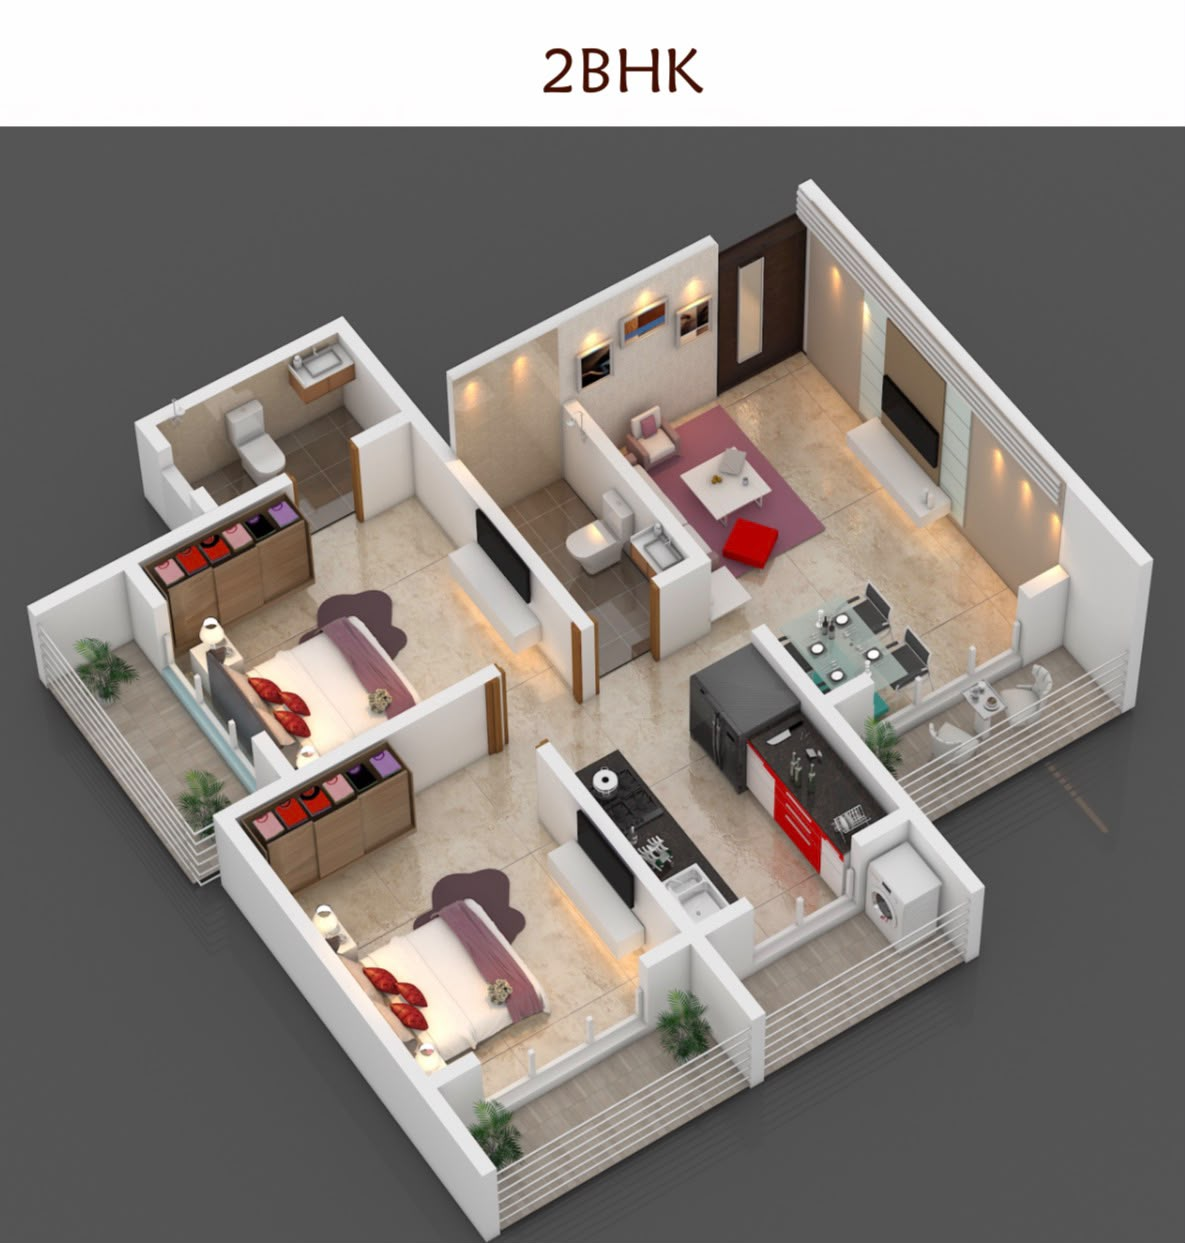
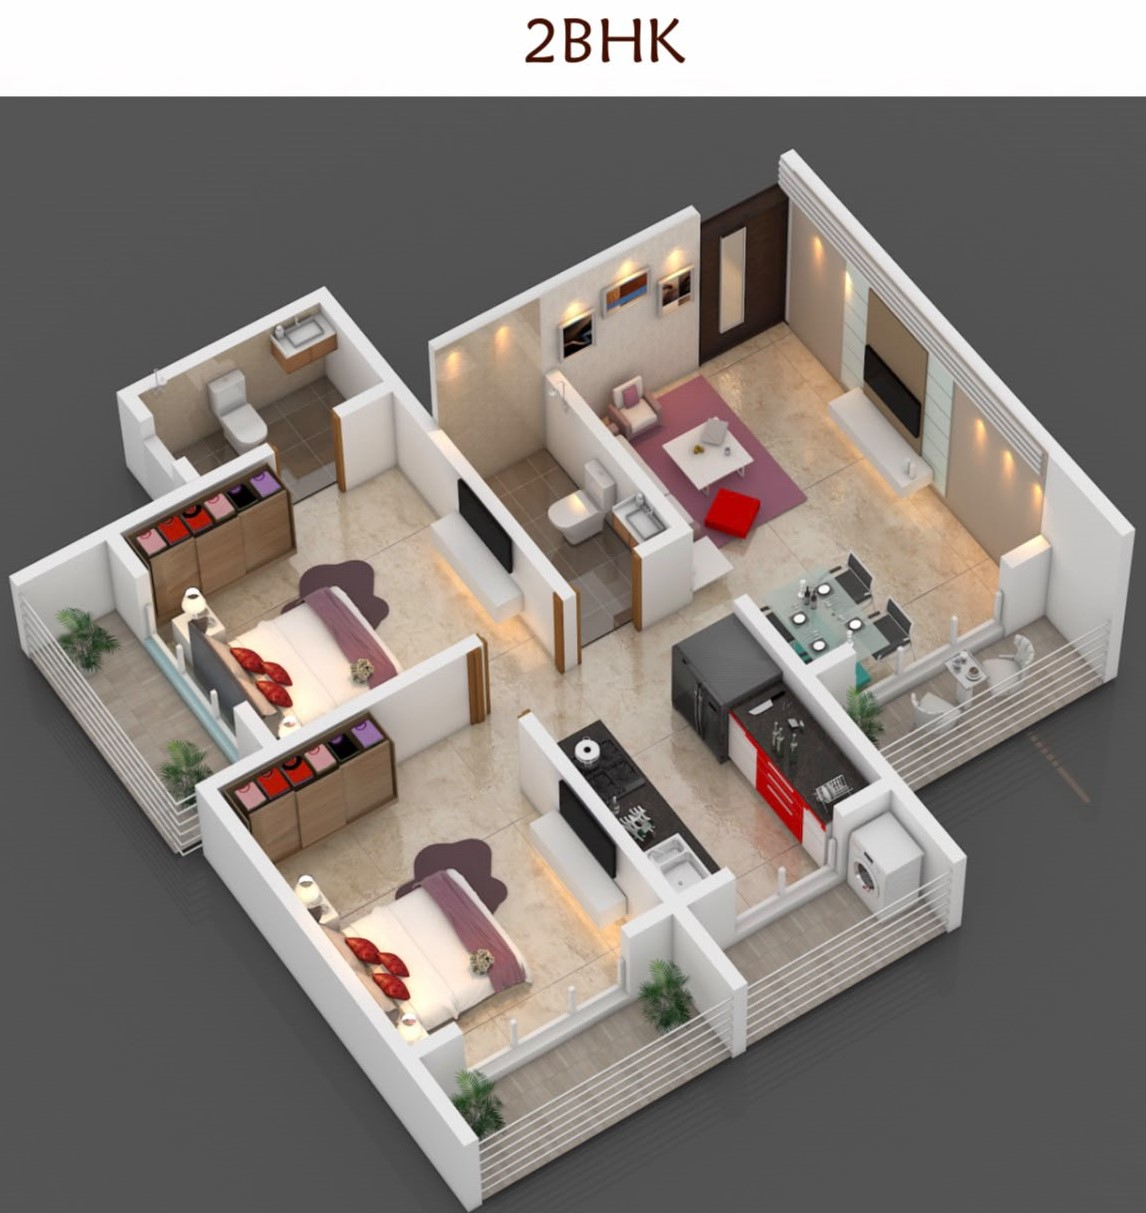
lc

diff --git a/src/lib/data.ts b/src/lib/data.ts
@@ -20,8 +20,8 @@ export const PROJECT = {
   startingPriceRaw: "29,99,999",
   location: "Opp. Xperia Mall, Nilje, Dombivli East",
   city: "Dombivli East, Maharashtra",
-  phone: "[phone redacted]",
-  phoneRaw: "919867989323",
+  phone: "[phone redacted]",
+  phoneRaw: "919324466477",
   brochure: "/brochure.pdf",
 } as const;
 
@@ -50,6 +50,8 @@ export const CONFIGURATIONS = [
     price: "₹29.99 L*",
     note: "Vastu-compliant · Sun-lit living",
     plan: "/images/plan-1bhk.jpg",
+    planW: 1149,
+    planH: 930,
   },
   {
     type: "2 BHK",
@@ -58,6 +60,8 @@ export const CONFIGURATIONS = [
     price: "On Request",
     note: "Twin bedrooms · Wide balcony",
     plan: "/images/plan-2bhk.jpg",
+    planW: 1146,
+    planH: 1213,
   },
 ] as const;
 